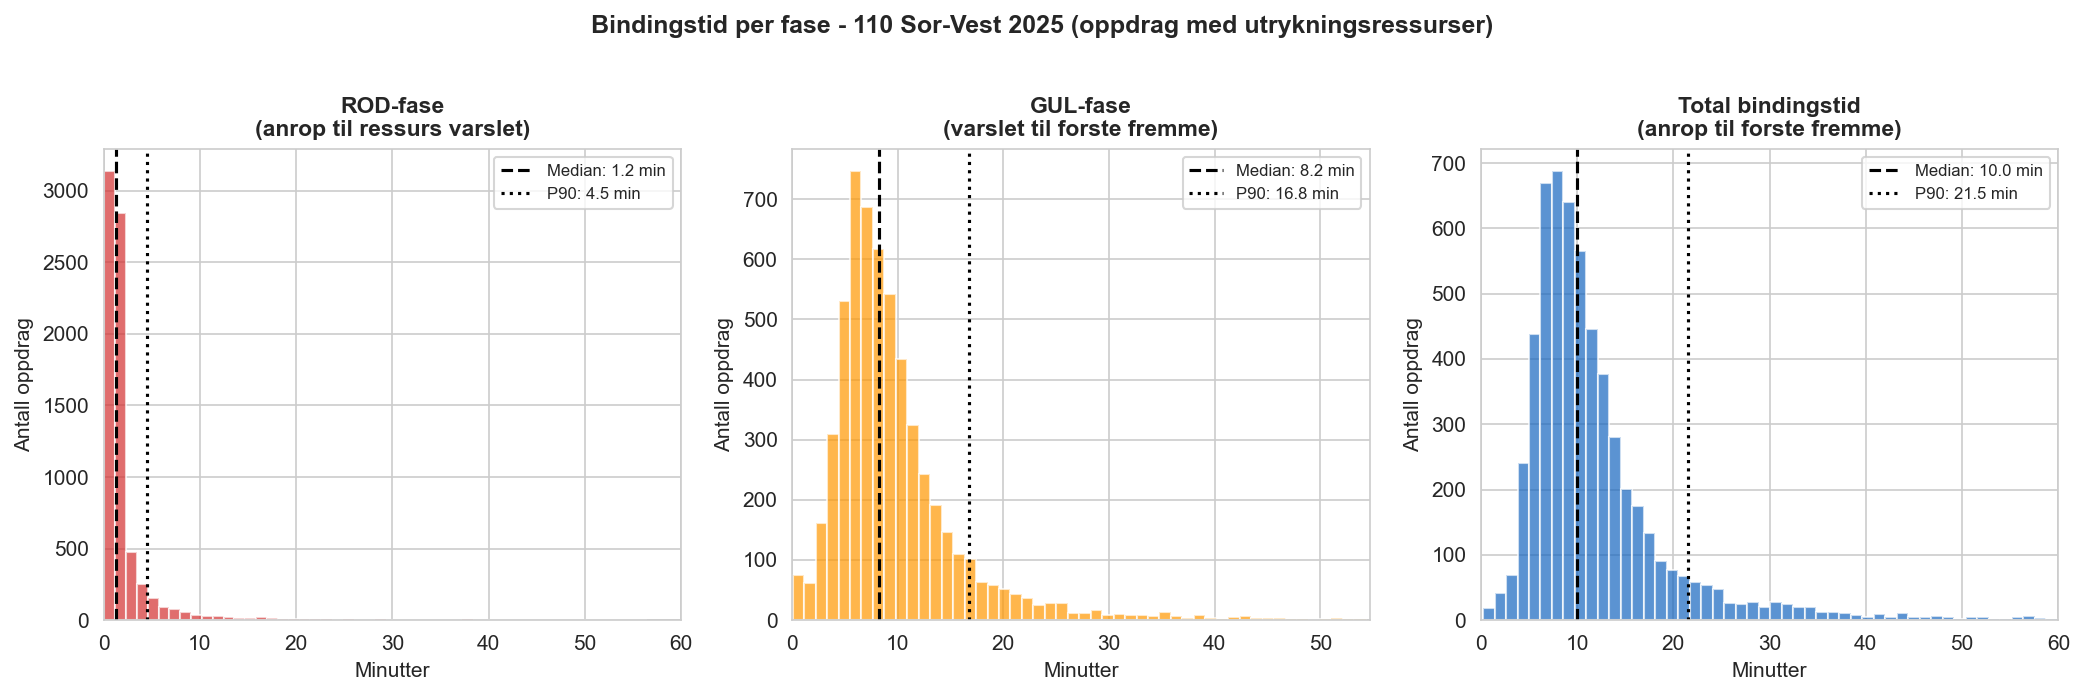
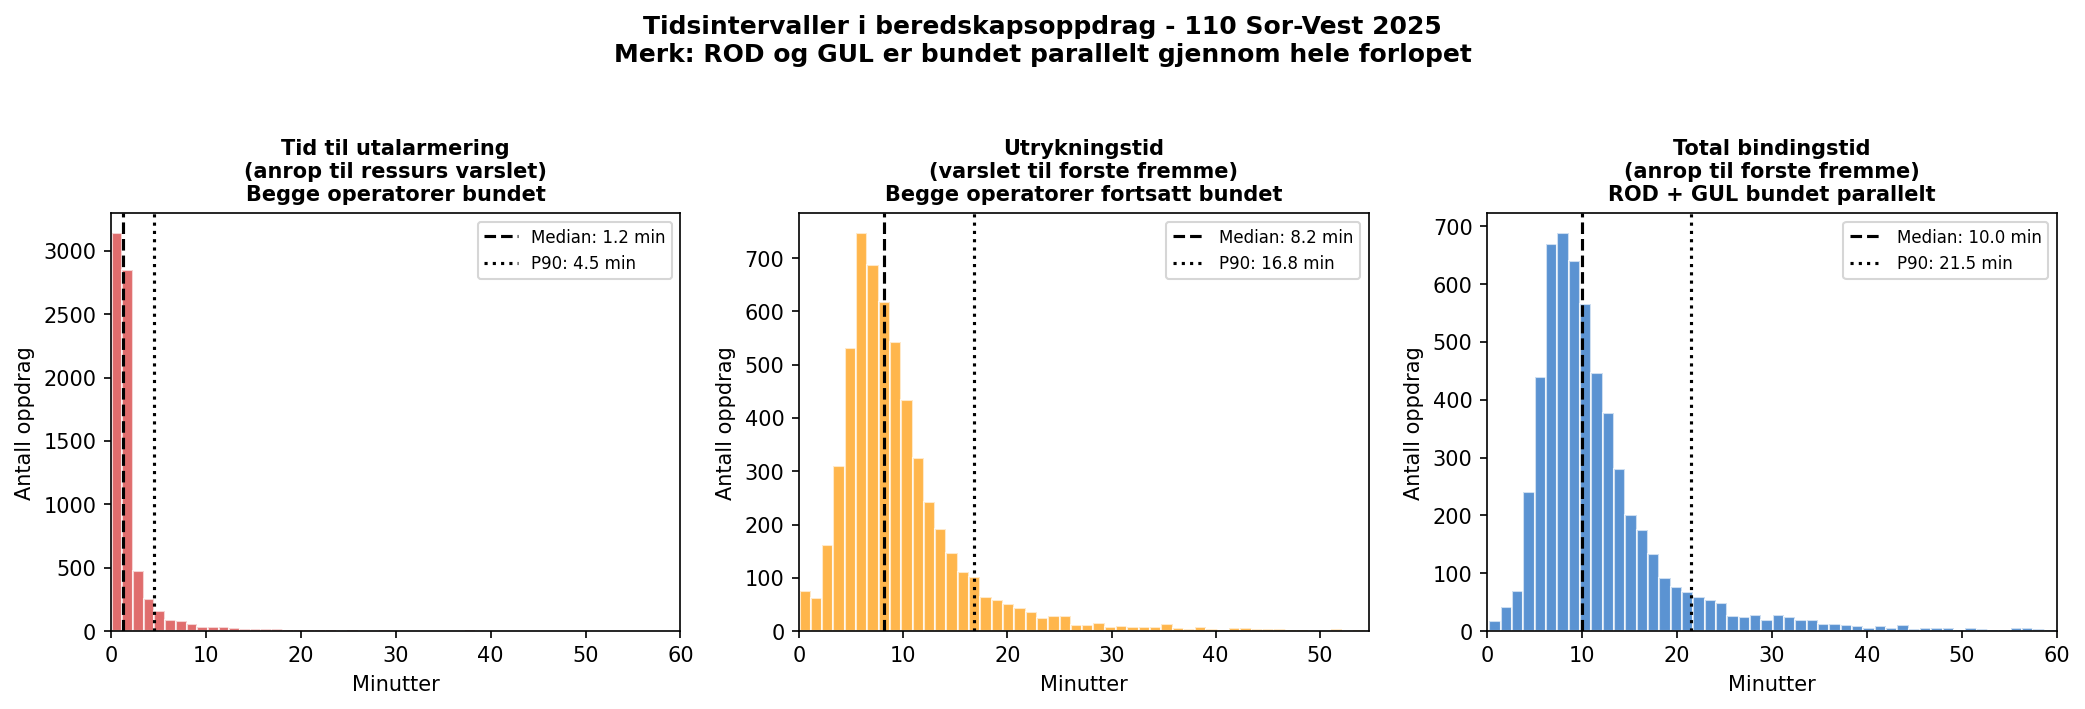
Fiks figur 7.1a: korrekte titler (begge op bundet parallelt)
Fjernet misvisende ROD-fase/GUL-fase-titler. Erstattet med:
- Tid til utalarmering (anrop til varslet)
- Utrykningstid (varslet til fremme)
- Total bindingstid (ROD + GUL bundet parallelt)
Undertittel presiserer at begge er bundet hele forlopet.

diff --git a/014 fase 4 - report/kap7_analyse_resultater.md b/014 fase 4 - report/kap7_analyse_resultater.md
@@ -119,7 +119,7 @@ Bindingstiden kan belyses gjennom to tidspunkter i BRIS-data. Tid fra anrop til 
 Både RØD og GUL er dermed bundet i hele perioden fra anrop til første ressurs er fremme. Bindingstiden på median 13,0 minutter representerer perioden der to operatører er opptatt med én hendelse. Etter at innringer legger på kan RØD frigjøres før GUL, men det eksakte tidspunktet varierer og er ikke registrert i BRIS.
 
 ![Figur 7.1a: Bindingstid per fase](../analyse/figurer/bindingstid_histogram.png)
-*Figur 7.1a: Fordeling av bindingstid per fase (RØD, GUL, Total) for beredskapsoppdrag med utrykningsressurser.*
+*Figur 7.1a: Tidsintervaller i beredskapsoppdrag. Venstre: tid til utalarmering (median 1,2 min). Midten: utrykningstid (median 8,2 min). Høyre: total bindingstid (median 10,0 min, uten kvittering). Merk: RØD og GUL er bundet parallelt gjennom hele forløpet.*
 
 **Tabell 7.3b: Bindingstid-fordeling (per 1000 beredskapsoppdrag)**
 